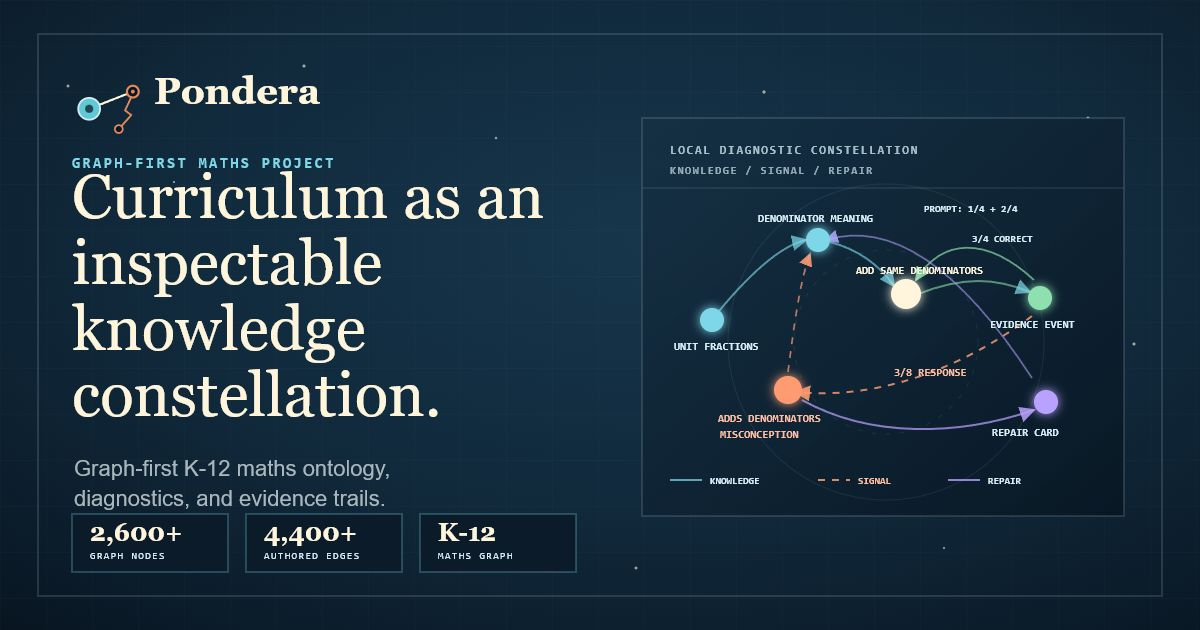
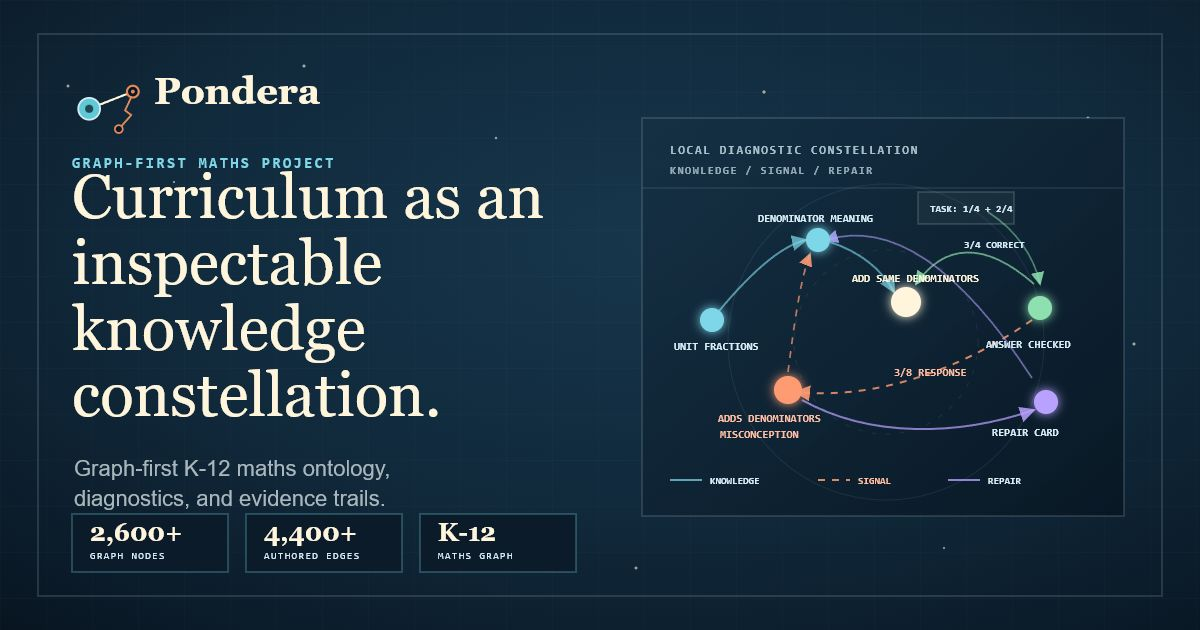
Restructure Pondera diagnostic graph flow

Changed region(s): [[0.7092, 0.3016, 0.8942, 0.573], [0.7708, 0.573, 0.8017, 0.6032]]

diff --git a/index.html b/index.html
@@ -726,7 +726,7 @@
         </div>
         <div class="repair-graph" aria-label="Typed graph showing a fraction misconception signal and repair path">
           <svg viewBox="0 0 980 390" role="img" aria-labelledby="repair-title">
-            <title id="repair-title">A local fraction graph where a wrong answer produces a misconception signal and routes to a denominator-meaning repair card.</title>
+            <title id="repair-title">A local fraction graph where a checked answer either strengthens a target skill or points to a misconception and repair card.</title>
             <defs>
               <marker id="arrow-blue" markerWidth="8" markerHeight="8" refX="7" refY="4" orient="auto">
                 <path d="M0,0 L8,4 L0,8 Z" fill="#7dd7e8" opacity="0.72"/>
@@ -742,27 +742,28 @@
               </marker>
             </defs>
             <path d="M118 182 C178 122 226 104 284 118" fill="none" stroke="#7dd7e8" stroke-width="1.8" stroke-opacity="0.62" marker-end="url(#arrow-blue)"/>
-            <path d="M326 120 C394 122 438 140 496 166" fill="none" stroke="#7dd7e8" stroke-width="1.8" stroke-opacity="0.62" marker-end="url(#arrow-blue)"/>
-            <path d="M542 174 C616 148 674 148 736 164" fill="none" stroke="#8ee0b0" stroke-width="1.8" stroke-opacity="0.55" marker-end="url(#arrow-blue)"/>
-            <path d="M756 150 C678 104 594 104 536 152" fill="none" stroke="#8ee0b0" stroke-width="1.8" stroke-opacity="0.68" marker-end="url(#arrow-green)"/>
-            <path d="M746 194 C636 260 484 290 326 270" fill="none" stroke="#ff9b73" stroke-width="1.8" stroke-opacity="0.82" stroke-dasharray="8 8" marker-end="url(#arrow-coral)"/>
+            <path d="M326 120 C390 128 432 148 486 176" fill="none" stroke="#7dd7e8" stroke-width="1.8" stroke-opacity="0.62" marker-end="url(#arrow-blue)"/>
+            <path d="M610 96 C672 116 718 144 750 180" fill="none" stroke="#8ee0b0" stroke-width="1.7" stroke-opacity="0.5" marker-end="url(#arrow-green)"/>
+            <path d="M738 178 C656 126 584 126 536 166" fill="none" stroke="#8ee0b0" stroke-width="1.8" stroke-opacity="0.7" marker-end="url(#arrow-green)"/>
+            <path d="M740 206 C624 262 470 288 326 270" fill="none" stroke="#ff9b73" stroke-width="1.8" stroke-opacity="0.82" stroke-dasharray="8 8" marker-end="url(#arrow-coral)"/>
             <path d="M314 248 C312 206 312 170 314 138" fill="none" stroke="#ff9b73" stroke-width="1.6" stroke-opacity="0.72" stroke-dasharray="8 8" marker-end="url(#arrow-coral)"/>
             <path d="M336 276 C462 326 618 322 748 292" fill="none" stroke="#b9a1ff" stroke-width="1.8" stroke-opacity="0.72" marker-end="url(#arrow-violet)"/>
             <path d="M760 258 C650 176 500 98 330 120" fill="none" stroke="#b9a1ff" stroke-width="1.6" stroke-opacity="0.58" marker-end="url(#arrow-violet)"/>
             <g class="star-node">
               <circle cx="110" cy="182" r="12" fill="#7dd7e8"/>
               <circle cx="306" cy="118" r="13" fill="#7dd7e8"/>
-              <circle cx="522" cy="172" r="16" fill="#fff5dc"/>
-              <circle cx="768" cy="172" r="12" fill="#8ee0b0"/>
+              <circle cx="510" cy="184" r="16" fill="#fff5dc"/>
+              <circle cx="760" cy="192" r="12" fill="#8ee0b0"/>
               <circle cx="306" cy="268" r="15" fill="#ff9b73"/>
               <circle cx="774" cy="282" r="12" fill="#b9a1ff"/>
             </g>
-            <text class="graph-label" x="448" y="80">Prompt: 1/4 + 2/4</text>
+            <rect x="438" y="70" width="172" height="44" rx="0" fill="#fff5dc" fill-opacity="0.04" stroke="#d8eef7" stroke-opacity="0.28"/>
+            <text class="graph-label" x="464" y="98">Task: 1/4 + 2/4</text>
             <text class="graph-label" x="58" y="214">Unit fractions</text>
             <text class="graph-label" x="238" y="92">Denominator meaning</text>
-            <text class="graph-label" x="454" y="148">Add same denominators</text>
-            <text class="graph-label" x="700" y="148">Evidence event</text>
-            <text class="graph-label" x="650" y="110">3/4 correct</text>
+            <text class="graph-label" x="442" y="160">Add same denominators</text>
+            <text class="graph-label" x="704" y="234">Answer checked</text>
+            <text class="graph-label" x="632" y="132">3/4 correct</text>
             <text class="graph-label hot" x="502" y="278">3/8 response</text>
             <text class="graph-label hot" x="194" y="306">Adds denominators</text>
             <text class="graph-label hot" x="218" y="324">misconception</text>